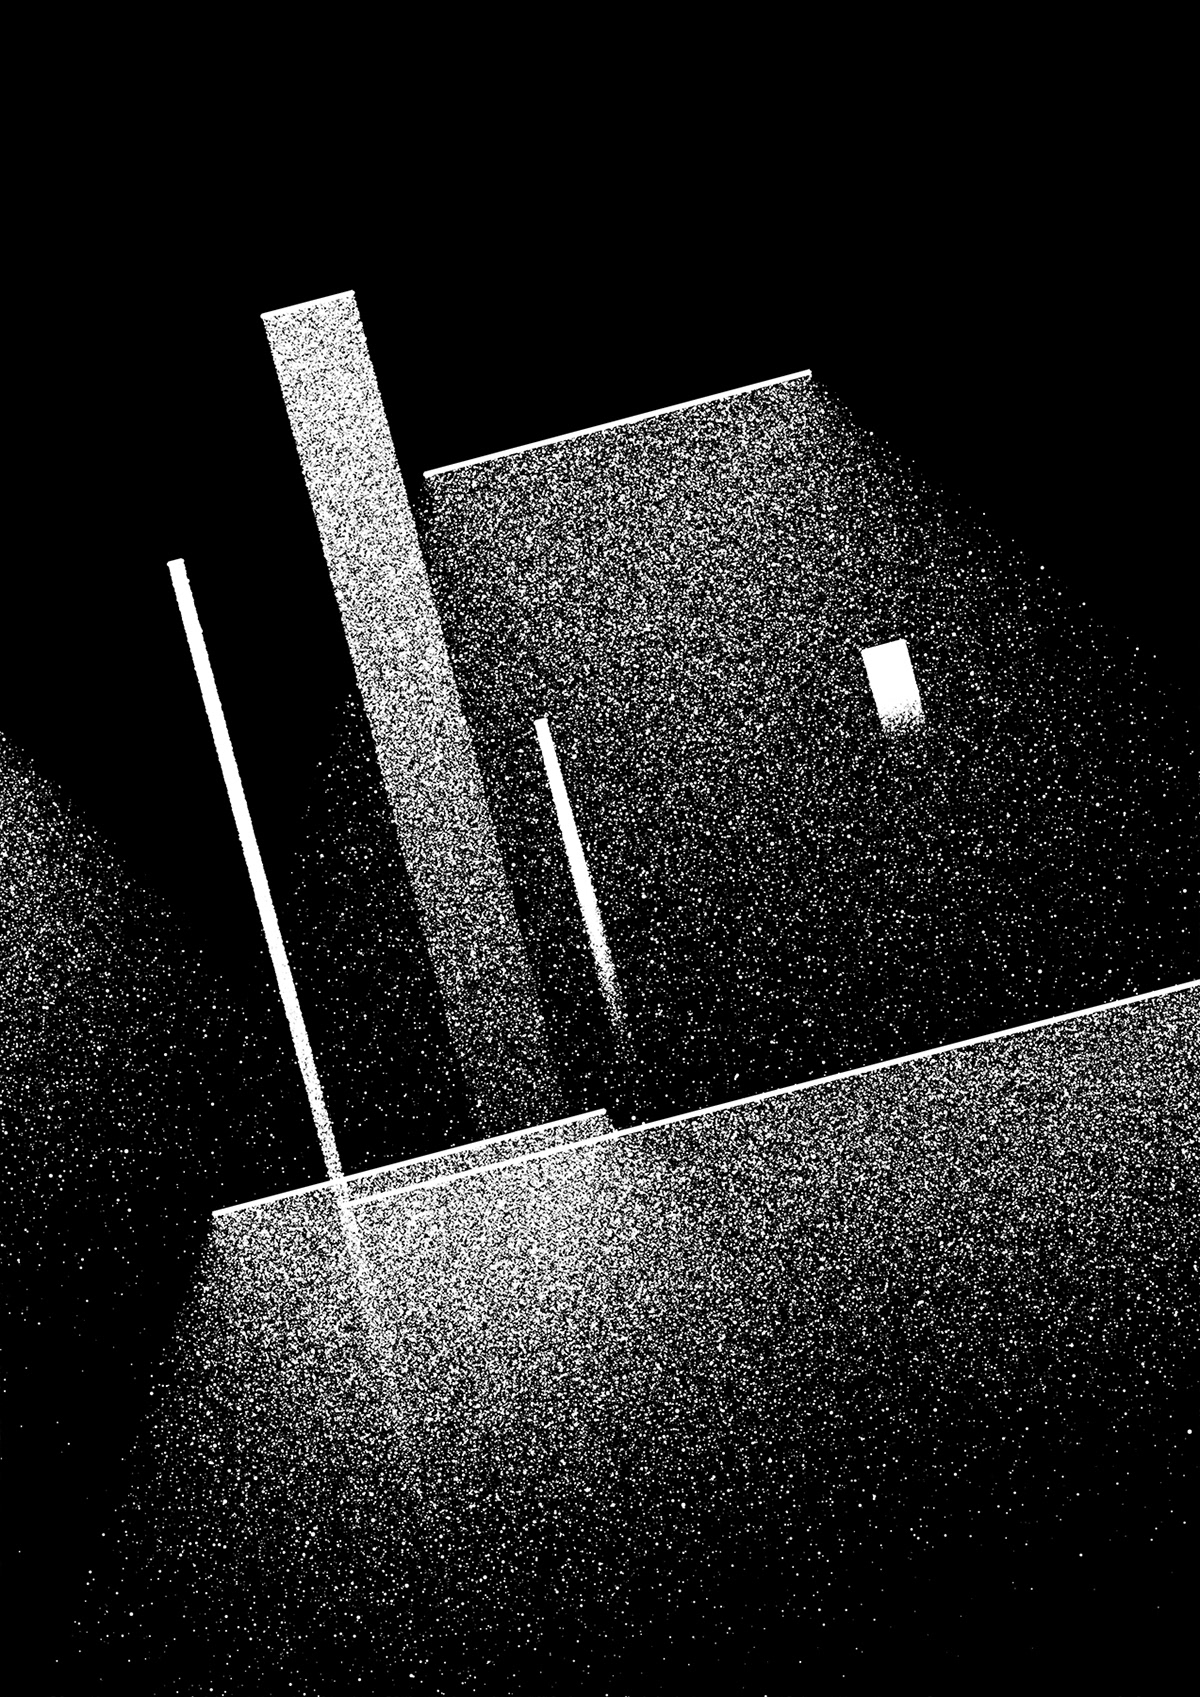
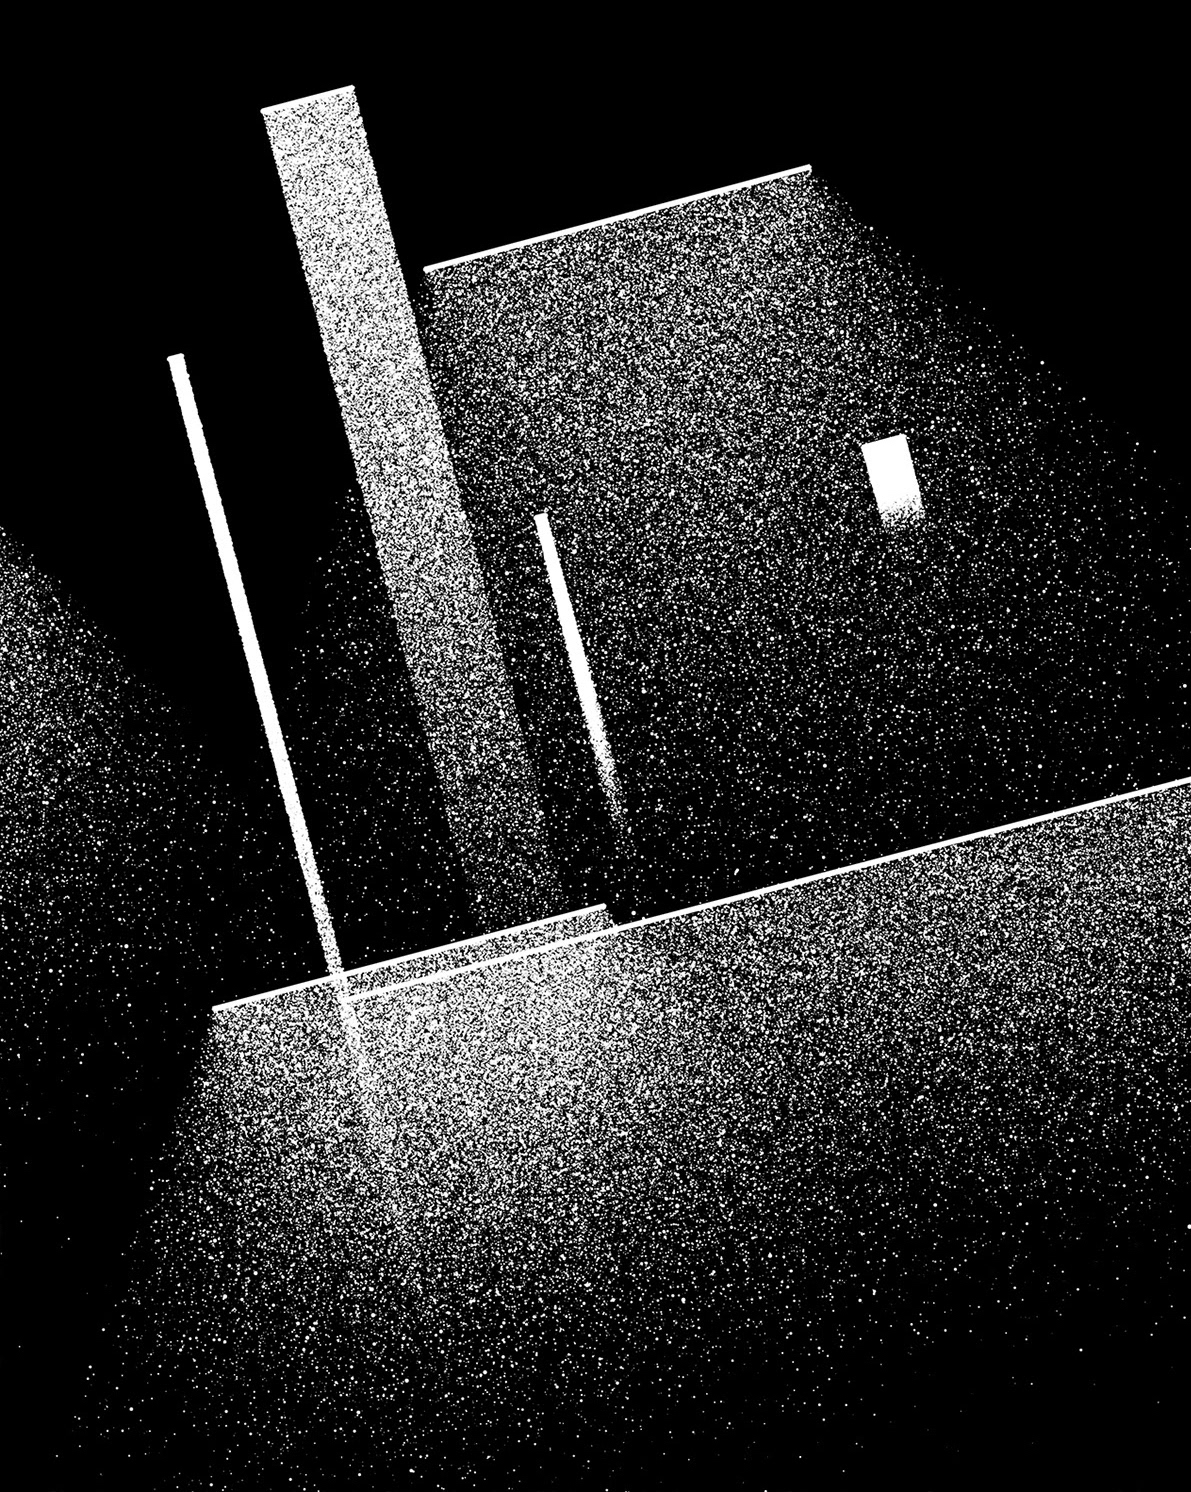
Add hero image

diff --git a/spendio/src/styles.css b/spendio/src/styles.css
@@ -1,6 +1,6 @@
 .grainy-texture {
-  background-image: url();
-  opacity: 0.15;
+  background-image: url(/main-Img.jpg);
+  opacity: 0.95;
   pointer-events: none;
 }
 
